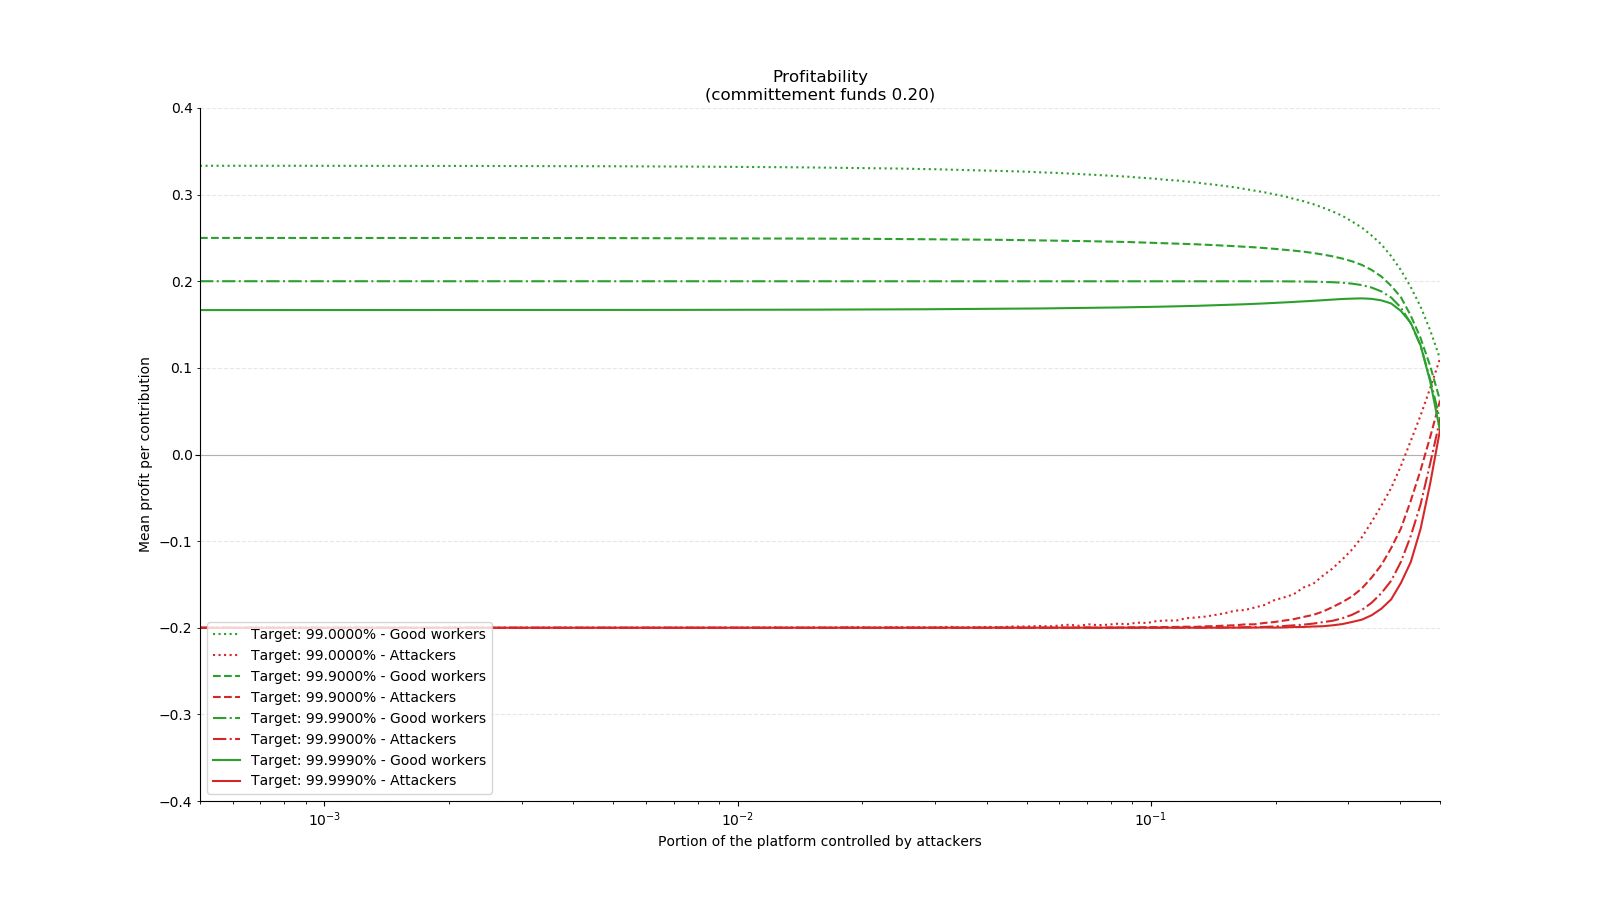
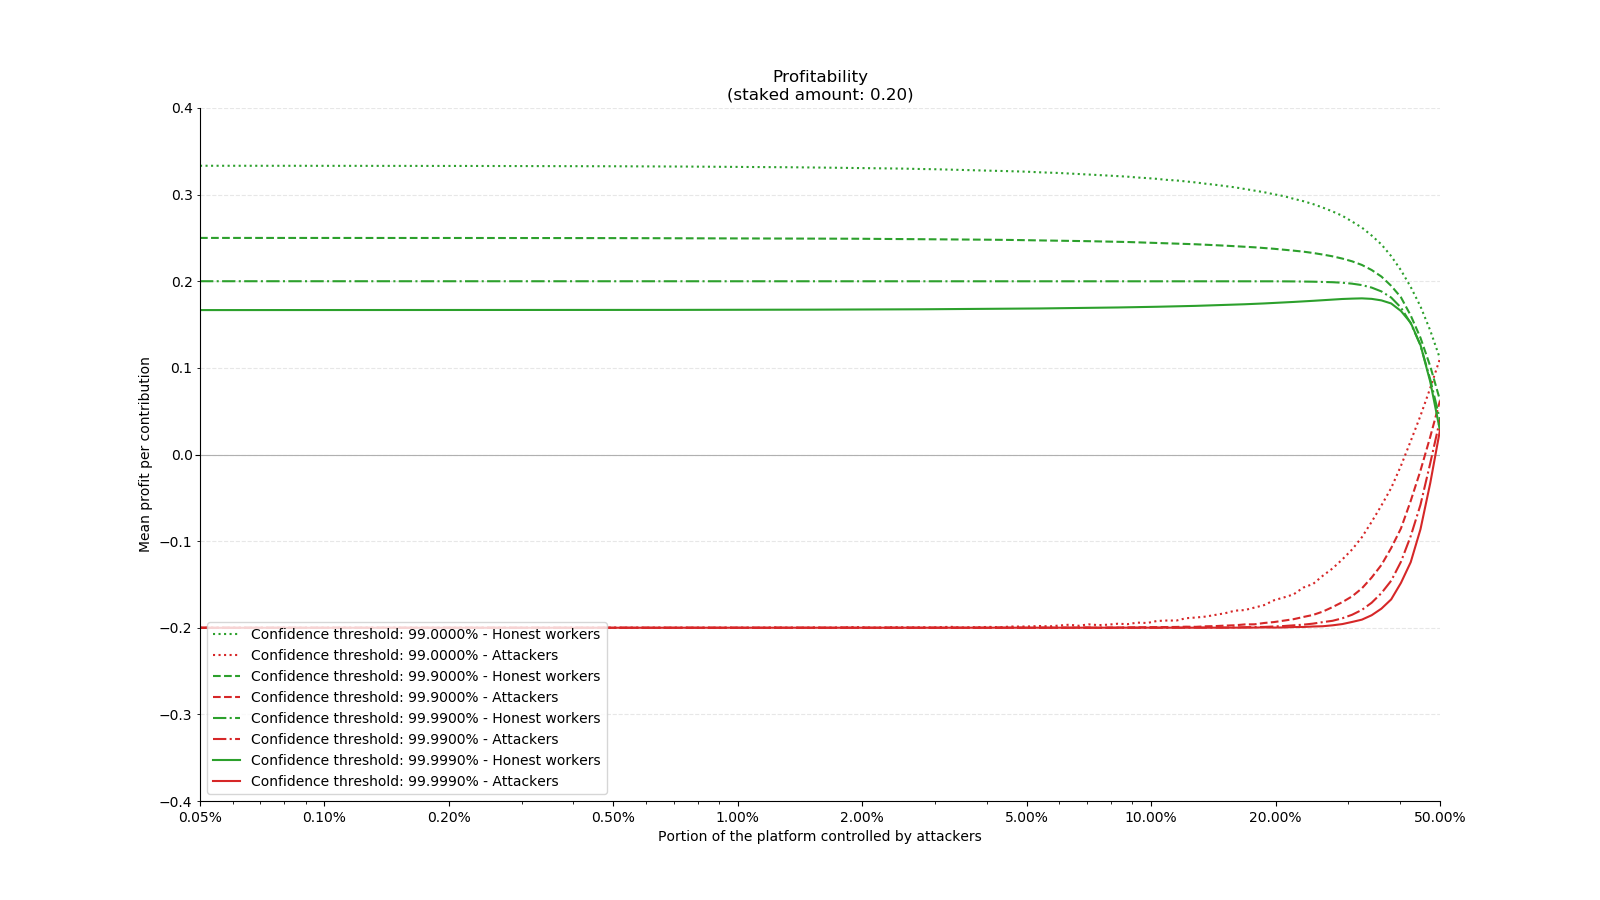
update plots & adding solidy implem of PoCo

diff --git a/simulator/stats-profitability-plot.py b/simulator/stats-profitability-plot.py
@@ -4,7 +4,10 @@ import numpy as np
 from matplotlib import pyplot as plt
 from matplotlib import ticker
 
-colors = [ c['color'] for c in plt.rcParams['axes.prop_cycle'] ]
+colors      = [ c['color'] for c in plt.rcParams['axes.prop_cycle'] ]
+xticks      = [ 0.5, 0.2, 0.1, 0.05, 0.02, 0.01, 0.005, 0.002, 0.001, 0.0005 ]
+xticklabels = ["%.2f%%" % (100.0*x) for x in xticks]
+
 
 def initPlot():
 	plt.figure(figsize=(16,9))
@@ -36,7 +39,7 @@ if __name__ == '__main__':
 	data_effect = dict()
 	for target, style in zip(targets, styles):
 		data_effect[target] = np.load("%s/effectiveness.trg-%f.npy" % (pwd_in, target))
-		plt.plot(data_effect[target][:,0], data_effect[target][:,1], label="Target: %.4f%%" % (target*100), color=colors[0], linestyle=style)
+		plt.plot(data_effect[target][:,0], data_effect[target][:,1], label="Confidence threshold: %.4f%%" % (target*100), color=colors[0], linestyle=style)
 	plt.title("Attack effectiveness")
 	plt.xlabel("Portion of the platform controlled by attackers")
 	plt.ylabel("Attack success rate")
@@ -46,6 +49,7 @@ if __name__ == '__main__':
 	xmax = max(d[:,0].max() for d in data_effect.values())
 	plt.xlim(left=xmin, right=xmax)
 	plt.xscale('log')
+	plt.xticks(xticks, xticklabels)
 	plt.ylim(bottom=0)
 	endPlot("%s/effectiveness.png" % (pwd_out))
 	# endPlot()
@@ -56,7 +60,7 @@ if __name__ == '__main__':
 	data_consensus = dict()
 	for target, style in zip(targets, styles):
 		data_consensus[target] = np.load("%s/consensus.trg-%f.npy" % (pwd_in, target))
-		plt.plot(data_consensus[target][:,0], data_consensus[target][:,1], label="Target: %.4f%%" % (target*100), color=colors[1], linestyle=style)
+		plt.plot(data_consensus[target][:,0], data_consensus[target][:,1], label="Confidence threshold: %.4f%%" % (target*100), color=colors[1], linestyle=style)
 	plt.title("Number of contribution to consensus")
 	plt.xlabel("Portion of the platform controlled by attackers")
 	plt.ylabel("Mean number of votes")
@@ -66,6 +70,7 @@ if __name__ == '__main__':
 	xmax = max(d[:,0].max() for d in data_consensus.values())
 	plt.xlim(left=xmin, right=xmax)
 	plt.xscale('log')
+	plt.xticks(xticks, xticklabels)
 	plt.ylim(bottom=0)
 	endPlot("%s/consensus.png" % (pwd_out))
 	# endPlot()
@@ -77,10 +82,10 @@ if __name__ == '__main__':
 		data_profit = dict()
 		for target, style in zip(targets, styles):
 			data_profit[target] = np.load("%s/profitability.fund-%05.2f.trg-%f.npy" % (pwd_in, f, target))
-			plt.plot(data_profit[target][:,0], data_profit[target][:,1], label="Target: %.4f%% - Good workers" % (target*100), color=colors[2], linestyle=style)
-			plt.plot(data_profit[target][:,0], data_profit[target][:,2], label="Target: %.4f%% - Attackers   " % (target*100), color=colors[3], linestyle=style)
+			plt.plot(data_profit[target][:,0], data_profit[target][:,1], label="Confidence threshold: %.4f%% - Honest workers" % (target*100), color=colors[2], linestyle=style)
+			plt.plot(data_profit[target][:,0], data_profit[target][:,2], label="Confidence threshold: %.4f%% - Attackers   " % (target*100), color=colors[3], linestyle=style)
 		# plt.title("Profitability\n(committement funds %.2f, target credibility: %.4f%%)" % (f, target*100))
-		plt.title("Profitability\n(committement funds %.2f)" % (f))
+		plt.title("Profitability\n(staked amount: %.2f)" % (f))
 		plt.xlabel("Portion of the platform controlled by attackers")
 		plt.ylabel("Mean profit per contribution")
 		plt.legend(loc='lower left')
@@ -91,6 +96,7 @@ if __name__ == '__main__':
 		ymax = max(np.absolute(d[:,1:]).max() for d in data_profit.values())
 		plt.xlim(left=xmin, right=xmax)
 		plt.xscale('log')
+		plt.xticks(xticks, xticklabels)
 		plt.ylim(bottom=-1.2*ymax, top=1.2*ymax)
 		plt.axes().yaxis.set_minor_locator  (plt.axes().yaxis.get_major_locator())
 		plt.axes().yaxis.set_minor_formatter(plt.axes().yaxis.get_major_formatter())

diff --git a/miscellaneous/digest.py b/miscellaneous/digest.py
@@ -1,0 +1,136 @@
+#!/usr/bin/python
+
+import ipfsapi
+import binascii
+import hashlib
+import os
+import sys
+from urllib.parse import urlparse
+
+SALT_LENGTH = 256
+
+# ============================== HASHING METHODS ==============================
+
+class hash:
+	def _raw(data, salt):
+		vote = hashlib.sha256(     data).hexdigest()
+		sign = hashlib.sha256(salt+data).hexdigest()
+		return contribution(vote=vote, sign=sign)
+
+	def _file(path, salt):
+		vote = hashlib.sha256()
+		sign = hashlib.sha256()
+		sign.update(salt)
+		with open(path, 'rb') as f:
+			while True:
+				buf = f.read(65536) # block size
+				if not buf:
+					break
+				vote.update(buf)
+				sign.update(buf)
+		return contribution(vote=vote.hexdigest(), sign=sign.hexdigest())
+
+	# FORMAT: str:xxxxxx
+	def str(uri, salt):
+		return hash._raw(data=uri.geturl()[4:].encode(), salt=salt)
+
+	# FORMAT: file://xxxxxx
+	def file(uri, salt):
+		return hash._file(path=uri.geturl()[7:], salt=salt)
+
+	# FORMAT: ipfs://xxxx(:xxxx)/xxxxxxxxxxx (host, port, hash)
+	def ipfs(uri, salt):
+		host = uri.hostname if uri.hostname else "localhost"
+		port = uri.port     if uri.port     else 5001
+		path = uri.path[1:]
+		api  = ipfsapi.connect(host=host, port=port)
+		# Large File - Download, hash, remove
+		if True:
+			api.get(path)
+			result = hash._file(path, salt=salt)
+			os.remove(path)
+		# Small File - Download, hash, remove
+		else:
+			result = hash._raw(data=api.cat(path), salt=salt) # SMALL FILES
+		return result
+
+# =============================================================================
+
+class contribution:
+	def __init__(self, vote, sign):
+		self.vote = vote
+		self.sign = sign
+
+	def verify(self, content, salt):
+		return self == digest(content, salt).getContribution()
+
+	def __eq__(self,other):
+		return self.vote == other.vote \
+		   and self.sign == other.sign
+
+	def __ne__(self,other):
+		return not self == other
+
+	def __repr__(self):
+		return "vote: %s\nsign: %s" % (self.vote, self.sign)
+
+# =============================================================================
+
+class digest:
+	def __init__(self, uri, salt=None, split="://"):
+		self.uri = urlparse(uri)
+		if   type(salt) is bytes : self.salt = salt
+		elif type(salt) is str   : self.salt = binascii.unhexlify(salt)
+		elif salt       is None  : self.salt = os.urandom(SALT_LENGTH)
+		else                     : raise ValueError
+
+	def hexSalt(self):
+		return binascii.hexlify(self.salt).decode()
+
+	def getContribution(self):
+		return getattr(hash, self.uri.scheme)(uri=self.uri, salt=self.salt)
+
+# =============================================================================
+
+class UI:
+	def test_start(name):
+		sys.stdout.write("Testing `%s`: " % name)
+	def test_stop(result):
+		if result:
+			sys.stdout.write("success\n")
+		else:
+			sys.stdout.write("faillure\n")
+			exit(1)
+
+
+if __name__ == '__main__':
+
+	# -------------------------------- FILE TEST --------------------------------
+	if True:
+		UI.test_start("Simple filesystem")
+		file_1 = "file:///home/amxx/todl.txt"
+		file_2 = "file://../../../todl.txt"
+		dg     = digest(file_1)
+		tx     = dg.getContribution()
+		salt   = dg.hexSalt()
+		valid  = tx.verify(file_2, salt)
+		# print(tx)
+		# print(salt)
+		# print(valid)
+		UI.test_stop(valid)
+
+	# -------------------------------- IPFS TEST --------------------------------
+	if True:
+		UI.test_start("IPFS filesystem")
+		ipfs   = "ipfs://localhost/QmWHggpsJiYsidE7je7rEyrGKegy7pfW8sKCeVixJKvwQy"
+		file   = "file:///home/amxx/todl.txt"
+		dg     = digest(ipfs)
+		tx     = dg.getContribution()
+		salt   = dg.hexSalt()
+		valid  = tx.verify(file, salt)
+		# print(tx)
+		# print(salt)
+		# print(valid)
+		UI.test_stop(valid)
+
+

diff --git a/miscellaneous/weights.py b/miscellaneous/weights.py
@@ -1,0 +1,20 @@
+#!/usr/bin/python
+
+import math
+
+def weight(credibility):
+	return -math.log(1-credibility)
+
+if __name__ == '__main__':
+	l = []
+	l.append(weight(credibility=0.8))
+	# l.append(weight(credibility=0.9))
+	# l.append(weight(credibility=0.9))
+	# l.append(weight(credibility=0.99))
+	# l.append(weight(credibility=0.999))
+	l.append(weight(credibility=0.9999))
+	l.append(weight(credibility=0.99999))
+
+	r = sum(l)
+	for v in l:
+		print(v / r)
